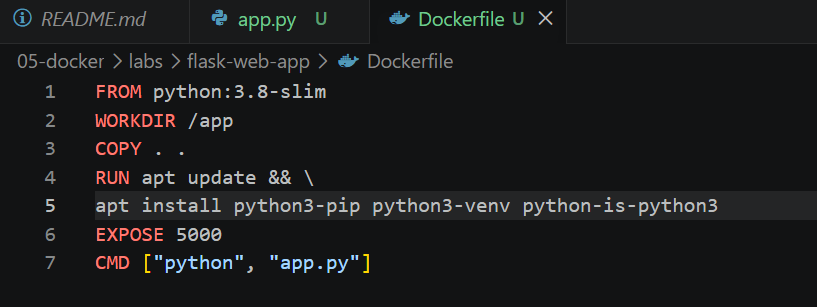
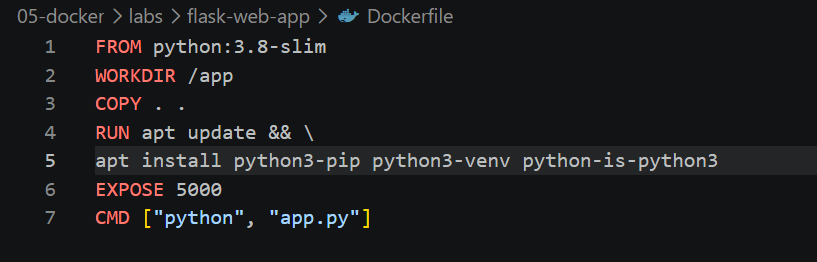
docs: complete docker 01-flask-web-app

diff --git a/05-docker/labs/01-flask-web-app/README.md b/05-docker/labs/01-flask-web-app/README.md
@@ -50,6 +50,48 @@ I created the docker file and used the command ```docker build -t hello-flask .`
 
 ![alt text](<images/Screenshot 2026-07-13 205119.png>)
 
+---
+
+**IMPORTANT:**
+
+I figured out that I didn't need to add ```apt install python3-pip python3-venv python-is-python3```.
+- This was because ```python:3.8-slim``` already includes Python and pip. Additionally, flask was not installed.
+- Therefore, I just replaced the ```RUN``` command with ```pip install flask```.
+
+![alt text](<images/Screenshot 2026-07-13 224908.png>)
+
 ## 5) Run the Docker container
 
+- Due to the change in the Dockerfile above, I had to rebuild the image. 
+- First, I had to remove the previous stopped container.
+- I checked the container logs using the container ID and found that the container had exited because Flask was not installed inside the Docker image.
+
+![alt text](<images/Screenshot 2026-07-13 232354.png>)
+
+- Although I believed the container was deleted since it did not appear after running ```docker ps```, it was actually stopped.
+- `docker ps` only displays currently running containers. To view both running and stopped containers, `docker ps -a` must be used.
+- After the container was deleted, I was allowed to delete the existing image.
+
+![alt text](<images/Screenshot 2026-07-13 230950.png>)
+
+---
+
+- I moved into the web app directory using ```cd 05-docker/labs/01-flask-web-app``` and rebuilt and ran the image, creating a running container.
+- The `-p 5000:5000` option maps port 5000 on the host machine to port 5000 inside the Docker container. This allows the Flask application running inside the container to be accessed through localhost.
+
+![alt text](<images/Screenshot 2026-07-13 231006.png>)
+
+- After this, the web app was successfully running with the container.
+
+![alt text](<images/Screenshot 2026-07-13 231704.png>)
+
 Lessons learned:
+
+1.) Docker makes it surprisingly easy to package and deploy applications across different environments.
+
+2.) python:3.8-slim already includes Python and pip.
+
+3a.) The Flask package installed inside my local virtual environment was not available inside Docker because containers are isolated from the host machine. Dependencies must be installed during the Docker image build process.
+3b.) It is common practice for real projects to have more than 1 dependency. For the ``RUN`` Dockerfile instruction, instead of ```pip install flask``` it may be ```RUN pip install -r requirements.txt```.
+
+4.) To view both running and stopped containers, `docker ps -a` must be used.
